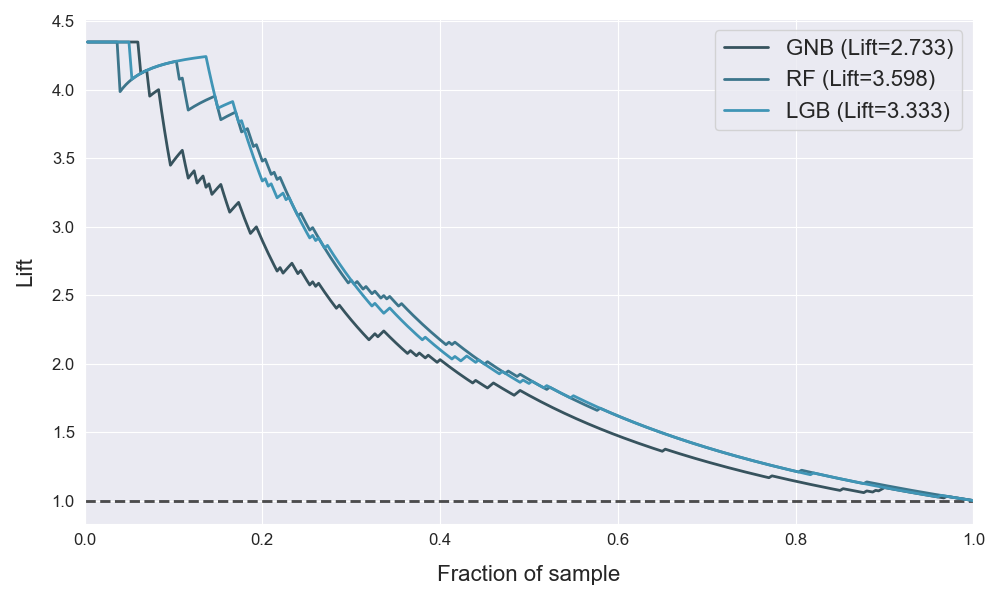
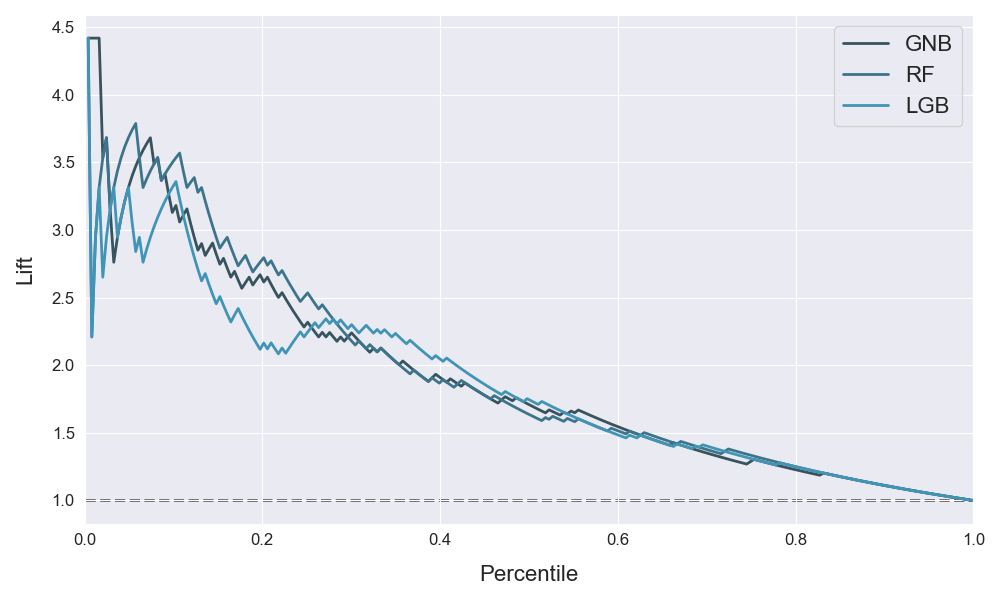
refactor plots

diff --git a/atom/plots.py b/atom/plots.py
@@ -44,7 +44,7 @@ from .basetransformer import BaseTransformer
 from .utils import (
     INT, SCALAR, SEQUENCE_TYPES, check_binary_task, check_dim, check_goal,
     check_is_fitted, check_predict_proba, composed, crash, get_best_score,
-    get_corpus, get_custom_scorer, get_feature_importance, get_proba_attr, lst,
+    get_corpus, get_custom_scorer, get_feature_importance, lst,
     partial_dependence, plot_from_model,
 )
 
@@ -221,17 +221,17 @@ class BasePlotter:
     # Methods ====================================================== >>
 
     @staticmethod
-    def _draw_line(ax, x):
+    def _draw_line(ax, y):
         """Draw a line across the axis."""
         ax.plot(
             [0, 1],
-            [0, 1] if x == "diagonal" else [x, x],
+            [0, 1] if y == "diagonal" else [y, y],
             color="black",
             linestyle="--",
             linewidth=2,
             alpha=0.6,
             zorder=-2,
-            transform=ax.transAxes,
+            transform=blended_transform_factory(ax.transAxes, ax.transData),
         )
 
     @staticmethod
@@ -1257,9 +1257,8 @@ class BaseModelPlotter(BasePlotter):
         fig = self._get_figure()
         ax = fig.add_subplot(BasePlotter._fig.grid)
         for m in models:
-            attr = get_proba_attr(m)
             for set_ in dataset:
-                if attr == "predict_proba":
+                if hasattr(m.estimator, "predict_proba"):
                     y_pred = getattr(m, f"predict_proba_{set_}")[:, 1]
                 else:
                     y_pred = getattr(m, f"decision_function_{set_}")
@@ -1271,7 +1270,7 @@ class BaseModelPlotter(BasePlotter):
                 label = m.name + (f" - {set_}" if len(dataset) > 1 else "") + roc
                 ax.plot(fpr, tpr, lw=2, label=label)
 
-        self._draw_line(ax=ax, x="diagonal")
+        self._draw_line(ax=ax, y="diagonal")
 
         BasePlotter._fig._used_models.extend(models)
         return self._plot(
@@ -1340,9 +1339,8 @@ class BaseModelPlotter(BasePlotter):
         fig = self._get_figure()
         ax = fig.add_subplot(BasePlotter._fig.grid)
         for m in models:
-            attr = get_proba_attr(m)
             for set_ in dataset:
-                if attr == "predict_proba":
+                if hasattr(m.estimator, "predict_proba"):
                     y_pred = getattr(m, f"predict_proba_{set_}")[:, 1]
                 else:
                     y_pred = getattr(m, f"decision_function_{set_}")
@@ -1354,7 +1352,7 @@ class BaseModelPlotter(BasePlotter):
                 label = m.name + (f" - {set_}" if len(dataset) > 1 else "") + ap
                 plt.plot(rec, prec, lw=2, label=label)
 
-        self._draw_line(ax=ax, x=m.y_test.sort_values().iloc[-1] / len(m.y_test))
+        self._draw_line(ax=ax, y=m.y_test.sort_values().iloc[-1] / len(m.y_test))
 
         BasePlotter._fig._used_models.extend(models)
         return self._plot(
@@ -1422,9 +1420,8 @@ class BaseModelPlotter(BasePlotter):
         fig = self._get_figure()
         ax = fig.add_subplot(BasePlotter._fig.grid)
         for m in models:
-            attr = get_proba_attr(m)
             for set_ in dataset:
-                if attr == "predict_proba":
+                if hasattr(m.estimator, "predict_proba"):
                     y_pred = getattr(m, f"predict_proba_{set_}")[:, 1]
                 else:
                     y_pred = getattr(m, f"decision_function_{set_}")
@@ -1501,31 +1498,20 @@ class BaseModelPlotter(BasePlotter):
         fig = self._get_figure()
         ax = fig.add_subplot(BasePlotter._fig.grid)
         for m in models:
-            attr = get_proba_attr(m)
             for set_ in dataset:
-                if attr == "predict_proba":
+                y_true = getattr(m, f"y_{set_}")
+                if hasattr(m.estimator, "predict_proba"):
                     y_pred = getattr(m, f"predict_proba_{set_}")[:, 1]
                 else:
                     y_pred = getattr(m, f"decision_function_{set_}")
 
-                # Make y_true a bool vector
-                y_true = getattr(m, f"y_{set_}") == 1
+                gains = np.cumsum(y_true.iloc[np.argsort(y_pred)[::-1]]) / y_true.sum()
+                x = np.arange(start=1, stop=len(y_true) + 1) / len(y_true)
 
-                # Get sorted indices
-                sort_idx = np.argsort(y_pred)[::-1]
-
-                # Correct indices for the test set (add train set length)
-                if set_ == "test":
-                    sort_idx = [i + len(m.y_train) for i in sort_idx]
-
-                # Compute cumulative gains
-                gains = np.cumsum(y_true.loc[sort_idx]) / float(np.sum(y_true))
-
-                x = np.arange(start=1, stop=len(y_true) + 1) / float(len(y_true))
                 label = m.name + (f" - {set_}" if len(dataset) > 1 else "")
                 ax.plot(x, gains, lw=2, label=label)
 
-        self._draw_line(ax=ax, x="diagonal")
+        self._draw_line(ax=ax, y="diagonal")
 
         BasePlotter._fig._used_models.extend(models)
         return self._plot(
@@ -1596,32 +1582,20 @@ class BaseModelPlotter(BasePlotter):
         fig = self._get_figure()
         ax = fig.add_subplot(BasePlotter._fig.grid)
         for m in models:
-            attr = get_proba_attr(m)
             for set_ in dataset:
-                if attr == "predict_proba":
+                y_true = getattr(m, f"y_{set_}")
+                if hasattr(m.estimator, "predict_proba"):
                     y_pred = getattr(m, f"predict_proba_{set_}")[:, 1]
                 else:
                     y_pred = getattr(m, f"decision_function_{set_}")
 
-                # Make y_true a bool vector
-                y_true = getattr(m, f"y_{set_}") == 1
+                gains = np.cumsum(y_true.iloc[np.argsort(y_pred)[::-1]]) / y_true.sum()
+                x = np.arange(start=1, stop=len(y_true) + 1) / len(y_true)
 
-                # Get sorted indices
-                sort_idx = np.argsort(y_pred)[::-1]
-
-                # Correct indices for the test set (add train set length)
-                if set_ == "test":  # Add the training set length to the indices
-                    sort_idx = [i + len(m.y_train) for i in sort_idx]
-
-                # Compute cumulative gains
-                gains = np.cumsum(y_true.loc[sort_idx]) / float(np.sum(y_true))
-
-                x = np.arange(start=1, stop=len(y_true) + 1) / float(len(y_true))
-                lift = f" (Lift={round(m.evaluate('lift', set_)['lift'], 3)})"
-                label = m.name + (f" - {set_}" if len(dataset) > 1 else "") + lift
+                label = m.name + (f" - {set_}" if len(dataset) > 1 else "")
                 ax.plot(x, gains / x, lw=2, label=label)
 
-        self._draw_line(ax=ax, x=1)
+        self._draw_line(ax=ax, y=1)
 
         BasePlotter._fig._used_models.extend(models)
         return self._plot(
@@ -1717,7 +1691,7 @@ class BaseModelPlotter(BasePlotter):
                 x = np.linspace(*ax.get_xlim(), 100)
                 ax.plot(x, model.predict(x[:, np.newaxis]), lw=2, alpha=1)
 
-        self._draw_line(ax=ax, x="diagonal")
+        self._draw_line(ax=ax, y="diagonal")
 
         BasePlotter._fig._used_models.extend(models)
         return self._plot(
@@ -2484,7 +2458,7 @@ class BaseModelPlotter(BasePlotter):
             )
             cbar.ax.tick_params(labelsize=self.tick_fontsize)
 
-        self._draw_line(ax=ax, x="diagonal")
+        self._draw_line(ax=ax, y="diagonal")
 
         BasePlotter._fig._used_models.extend(models)
         return self._plot(

diff --git a/atom/utils.py b/atom/utils.py
@@ -1143,11 +1143,6 @@ def false_negative_rate(y_true, y_pred):
     return float(fn / (fn + tp))
 
 
-def lift(y_true, y_pred):
-    tn, fp, fn, tp = confusion_matrix(y_true, y_pred).ravel()
-    return float((tp / (tp + fp)) / ((tp + fn) / (tp + tn + fp + fn)))
-
-
 # Scorers not predefined by sklearn
 CUSTOM_SCORERS = dict(
     tn=true_negatives,
@@ -1158,7 +1153,6 @@ CUSTOM_SCORERS = dict(
     tpr=true_positive_rate,
     tnr=true_negative_rate,
     fnr=false_negative_rate,
-    lift=lift,
     mcc=matthews_corrcoef,
 )
 

diff --git a/atom/basetransformer.py b/atom/basetransformer.py
@@ -136,6 +136,7 @@ class BaseTransformer:
     @experiment.setter
     def experiment(self, value):
         self._experiment = value
+        mlflow.autolog(disable=True)
         if value:
             mlflow.set_experiment(value)
 

diff --git a/docs_sources/user_guide/logging.md b/docs_sources/user_guide/logging.md
@@ -23,8 +23,13 @@ When no backend is configured, the data is stored locally at `./mlruns`.
 To configure the backend, use [mlflow.set_tracking_uri](https://www.mlflow.org/docs/latest/python_api/mlflow.html#mlflow.set_tracking_uri)
 in your notebook or IDE before initializing the trainer. This does not
 affect the currently active run (if one exists), but takes effect for
-successive runs. When using ATOM on Databricks, the uri should include
-the complete path to the storage, e.g. `/Users/username@domain.com/experiment_name`.
+successive runs.
+
+!!! info
+    When using ATOM on [Databricks](https://databricks.com/), the
+    experiment's name should include the complete path to the storage,
+    e.g. `/Users/username@domain.com/experiment_name`.
+
 The following elements are tracked:
 
 **Tags**<br>

diff --git a/docs_sources/dependencies.md b/docs_sources/dependencies.md
@@ -72,7 +72,7 @@ using `pip install atom-ml[dev]`.
 * **[isort](https://pycqa.github.io/isort/)** (>=5.10.1)
 * **[flake8](https://github.com/pycqa/flake8)** (>=4.0.1)
 * **[pytest](https://docs.pytest.org/en/latest/)** (>=7.1.0)
-* **[coverage](https://github.com/nedbat/coveragepy)** (>=6.3.2)
+* **[pytest-cov](https://pytest-cov.readthedocs.io/en/latest/)** (>=3.0.0)
 * **[tensorflow](https://www.tensorflow.org/)** (>=2.3.1)
 * **[mkdocs](https://www.mkdocs.org/)** (>=1.2.3)
 * **[mkdocs-material](https://squidfunk.github.io/mkdocs-material/)** (>=8.2.5)

diff --git a/docs_sources/user_guide/training.md b/docs_sources/user_guide/training.md
@@ -131,7 +131,6 @@ tasks.
 * "TPR" for True Positive Rate (sensitivity, recall)
 * "TNR" for True Negative Rate (specificity)
 * "FNR" for False Negative Rate (miss rate)
-* "Lift" for Lift
 * "MCC" for Matthews Correlation Coefficient (also for multiclass classification)
 
 
